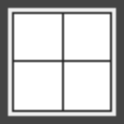
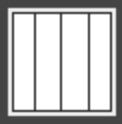
fix small synapse bugs and calibration backup

Changed region(s): [[0.0984, 0.0484, 0.959, 0.9435]]

diff --git a/Naveen/Synapse/SynapseActionMac.py b/Naveen/Synapse/SynapseActionMac.py
@@ -23,7 +23,7 @@ from helpers import file_to_list, json_to_dict, turn_int
 
 
 class SynapseAction:
-    def __init__(self, lexicon, recordingPath, imageFolder=None, keyboard=True, calibrationPath = None):
+    def __init__(self, lexicon, commandFile, recordingPath, imageFolder=None, keyboard=True, calibrationPath = None):
         ####################
         ## autogui setup  ##
         auto.FAILSAFE = True
@@ -45,9 +45,10 @@ class SynapseAction:
         if calibrationPath is None:
             self.calibrationPath = "calibration" + "_".join(list(str(e) for \
                 e in [self.width, self.height, self.scale])).replace(".", "-") + ".txt"
+        print(self.calibrationPath)
         # Initialize the command desambiguation tool
         self.finalCmd = SynapseCommand(lexicon, recordingPath)
-        self.cmd_dict = json_to_dict('commands.json')
+        self.cmd_dict = json_to_dict(commandFile)
 
         # Variables of the synapse window
         # TODO all of this variables should probably go. Check that the code that uses them
@@ -62,7 +63,7 @@ class SynapseAction:
 
         # Status of the system:
         self.status = {"prev_action": "", "panel_dim": [1, 1],
-            "window_open": False, "active_panel": [1, 1],
+            "window_open": False, "active_panel": [0, 0],
             "rulers": {"len": 0}, "toUse": "Keyboard",
             # "hold_action": None,
             "topBarHeight": None, "defaultCommand": None, "group1_command": None,
@@ -211,8 +212,8 @@ class SynapseAction:
             self.status["jumpH"] = (self.status["firstH"] * 2.0 if self.status["panel_dim"][0] != 1 else 0)
 
     def moveToActivePanel(self):
-            moveToX = self.status["firstW"] + (self.status["active_panel"][1] - 1) * (self.status["jumpW"])
-            moveToY = self.status["firstH"] + (self.status["active_panel"][0] - 1) * (self.status["jumpH"])
+            moveToX = self.status["firstW"] + (self.status["active_panel"][1]) * (self.status["jumpW"])
+            moveToY = self.status["firstH"] + (self.status["active_panel"][0]) * (self.status["jumpH"])
             auto.moveTo(moveToX, moveToY)
 
     # Reset height of top bar and save it
@@ -352,6 +353,7 @@ class SynapseAction:
             if sequence_list[btn_index] in self.cmd_dict:
                 btn_tex = self.cmd_dict[sequence_list[btn_index]]
             else:
+                print "WRONG TASK"
                 return None
             if first_row:
                 self.btn_list[btn_index]['fg'] = self.fg_colors[1]
@@ -369,7 +371,7 @@ class SynapseAction:
         option = 0
         option_number = len(sequence_list)+1
         while True:
-            if keyboard.is_pressed('down') and not pressed:
+            if keyboard.is_pressed('3') and not pressed:
                 pressed= True
                 highlight_index = option % option_number
                 self.btn_list[highlight_index]['fg'] = self.fg_colors[0]
@@ -390,15 +392,18 @@ class SynapseAction:
                     window = Toplevel(self.root_window,width=sub_win_w,height=sub_win_h)
                     window.geometry('%dx%d+%d+%d' % (sub_win_w, sub_win_h, 20, 50))
                     cmd_keys = self.cmd_dict.keys()
+                    column_number = 3
+                    num_of_cmds = len(cmd_keys)
+                    column_elem_num = num_of_cmds/column_number
                     cmd_keys.sort(key=turn_int)
                     # create the windows with all the commands
                     option_matrix = []
                     for i in range(3):
-                        max_j = 10 if i < 2 else 8
+                        max_j = column_elem_num if i < 2 else num_of_cmds - column_elem_num*(column_number-1)
                         column = []
                         for j in range(max_j):
                             label = Label(window,font=self.big_font,
-                                text=self.cmd_dict[cmd_keys[i*10+j]],
+                                text=self.cmd_dict[cmd_keys[i*column_elem_num+j]],
                                 background = self.bg_colors[0],
                                 borderwidth=2, relief="groove", width=22
                                 )
@@ -408,7 +413,7 @@ class SynapseAction:
                     window.lift()
                     window.attributes("-topmost", True)
                     sub_pressed = [False, False, False, False]
-                    keys = ['down','up','left','right']
+                    keys = ['3','2','1','4']
                     option_modifier = [1,-1,-1,1]
                     column_option = 0
                     row_option = 0
@@ -454,29 +459,25 @@ class SynapseAction:
                             key_index = row_num*len(option_matrix[0]) + col_num
                             window.destroy()
                             self.root_window.withdraw()
-                            auto.PAUSE = 0.5
                             self.openWindow(self.viewer)
                             auto.PAUSE = 1
-                            print("RETURNING HERE",cmd_keys[key_index])
                             return cmd_keys[key_index]
 
                         self.root_window.update_idletasks()
                         self.root_window.update()
                 else:
                     self.root_window.withdraw()
-                    auto.PAUSE = 0.5
                     self.openWindow(self.viewer)
                     auto.PAUSE = 1
                     return sequence_list[text_index]
 
             elif keyboard.is_pressed('x') and not pressed:
                 self.root_window.withdraw()
-                auto.PAUSE = 0.5
                 self.openWindow(self.viewer)
                 auto.PAUSE = 1
                 return None
 
-            if not keyboard.is_pressed('down'):
+            if not keyboard.is_pressed('3'):
                 pressed = False
             if not keyboard.is_pressed('y'):
                 y_pressed = False
@@ -655,10 +656,12 @@ class SynapseAction:
         ####################################################
 
         elif (command == "Switch Panel" and action != "Switch Panel"):
-            ind = int(actionID / 3)
-            self.status["active_panel"][ind] += (-1 if action == "Left" or action == "Up" else 1)
-            self.status["active_panel"][ind] = max(1, self.status["active_panel"][ind])
-            self.status["active_panel"][ind] = min(self.status["active_panel"][ind], self.status["panel_dim"])
+            # TODO change if we are going to use more than 1 by X pannel configs
+            self.status["active_panel"][1] += (-1 if action == "Left" or action == "Up" else 1)
+            self.status["active_panel"][1] = max(0, self.status["active_panel"][1])
+            self.status["active_panel"][1] = min(self.status["active_panel"][1], self.status["panel_dim"][1]-1)
+            print("active pannels:",self.status["active_panel"])
+            print("layout:",self.status["panel_dim"])
             self.moveToActivePanel()
             auto.click()
 
@@ -788,11 +791,13 @@ class SynapseAction:
             print layoutOptionPath
             (center_x, center_y) = auto.locateCenterOnScreen(layoutOptionPath)
             auto.click(center_x/2,center_y/2)
+            self.status["panel_dim"] = [1, actionID]
+            self.status["active_panel"] = [0, 1] if actionID ==3 else [0,0]
             time.sleep(2)
             self.resetPanelMoves()
             self.moveToActivePanel()
             auto.click()
-            pass
+            return True
 
 
         ####################################################

diff --git a/Naveen/s_server.py b/Naveen/s_server.py
@@ -7,13 +7,13 @@ from CustomSocket import Server
 DEFAULT_PATH  = os.path.join("Synapse","SCA_Images")
 
 class SynapseServer(Server):
-    def run(self, only_once = False, lexicon='L3', filename='test', syn_path=DEFAULT_PATH):
+    def run(self, only_once = False, lexicon='L3', commandFile='commands.json', filename='test', syn_path=DEFAULT_PATH):
         ########################
         # Receives a data string from a client, prints it, sends True/False to the client
         # If only_once is True, it will receive only one data string. Otherwise, it will receive infinitely.
         ########################
         print('--------- Server ---------')
-        syn_action = sa.SynapseAction(lexicon, filename, imageFolder=syn_path)
+        syn_action = sa.SynapseAction(lexicon, commandFile, filename, imageFolder=syn_path)
         # signal.signal(signal.SIGINT, syn_action.signalHandler)
         syn_action.calibrate()
         while True:
@@ -52,16 +52,18 @@ if __name__ == '__main__':
     parser.add_argument('-s', action="store", dest="syn_path",
             help="Path to the SCA synapse folder",
             default=DEFAULT_PATH)
+    parser.add_argument('-c', action="store", dest="command_file",
+            help="command file", required=True)
     # parser.add_argument('-t',action="store", dest="use_thread",
             # type=bool, default=True)
     args = parser.parse_args()
 
     #### Variables #######
-    # tcp_ip = socket.gethostbyname(socket.gethostname())
-    # tcp_ip='10.186.42.155'
-    tcp_ip = 'localhost'
+    tcp_ip = socket.gethostbyname(socket.gethostname())
+    tcp_ip='10.186.40.121'
+    # tcp_ip = 'localhost'
     # print(tcp_ip)
-    tcp_port = 10000
+    tcp_port = 9000
     server = SynapseServer(tcp_ip, tcp_port, buffer_size = 1000000)
     # print args.use_thread
     # if args.use_thread:
@@ -73,4 +75,4 @@ if __name__ == '__main__':
         # server_thread.start()
     # else:
         # print "HERE"
-    server.run(lexicon=args.lexicon,filename=args.filepath, syn_path=args.syn_path)
+    server.run(lexicon=args.lexicon, commandFile=args.command_file, filename=args.filepath, syn_path=args.syn_path)

diff --git a/Naveen/s_client.py b/Naveen/s_client.py
@@ -11,7 +11,7 @@ from CustomSocket import Client
 #### Variables #######
 # tcp_ip = '10.186.42.155'
 tcp_ip = 'localhost'
-tcp_port = 10000
+tcp_port = 9000
 # dataList = ["1_1 40", "1_2 30", "2_1", "2_2", "3_1", "3_2", "4_1 200", "4_2 40", "6_1 80", "6_2 80", "6_3 80", "6_4 80", "8_1", "8_2", "9_1 60", "9_2 30", "10_4", "5_1", "5_2", "5_3", "5_4", "5_1", "0_2", "11_1", "11_2"]
 dataList = ["3_0", "3_1", "3_0", "3_2", "4_0", "4_1","4_0", "4_2" ]
 dataList = ["3_0", "3_1", "3_0", "3_2", "4_0", "4_1","4_0", "4_2" ]
@@ -19,19 +19,19 @@ dataList = ["3_0", "3_1", "3_0", "3_2", "4_0", "4_1","4_0", "4_2" ]
 # dataList = ["1_0", "1_1", "1_2", "1_1", "2_0", "2_1", "2_2", "2_1", "2_1", "2_2", "2_0","3_0", "3_1", "3_2", "3_1", "3_1", "3_2", "3_0", "4_0", "4_1", "4_1", "4_2", "4_2", "4_0", "4_0", "4_1", "4_2", "3_1", "4_1", "4_1", "4_0", "6_0", "6_1", "6_1", "6_2", "6_2", "6_0", "6_0", "6_1", "6_2"]
 # dataList = ["4_0", "4_1", "4_1", "4_2", "4_2", "4_0", "4_0", "4_1", "4_2", "3_1", "4_1", "4_1", "4_0"]
 # dataList = ["4_0", "4_1", "4_1", "4_2", "4_2", "4_0", "4_0", "4_1", "4_2", "3_1", "4_1", "4_1", "4_0", "6_0", "6_1", "6_1", "6_2", "6_2", "6_0", "6_0", "6_1", "6_2"]
-dataList = ["4_0", "4_1", "4_1", "6_0", "6_1", "6_2", "6_3", "6_4"]
+dataList = ["4_1", "6_3", "6_4", "6_1", "6_1", "6_1", "6_2", "6_1", "6_2", "6_1", "6_2", "6_1", "6_2"]
 # dataList = ["4_1", "6_0", "6_3", "6_4", "6_3"]
 # dataList = ["4_1","6_1", "6_2", "6_3", "6_4", "6_4", "6_3", "6_2", "6_1"]
 # dataList = ["9_0", "9_2", "4_0", "9_2", "3_1", "9_1"]
 # dataList = ["11_1", "11_2", "4_1", "11_1"]
-# dataList = ["10_1", "10_2", "10_3", "10_4"]
+dataList = ["10_3", "5_1", "5_2", "5_2", "5_2"]
 
 ###### Initialize client socket ######
 client = Client(tcp_ip, tcp_port, buffer_size = 1000000)
 
 print("CLIENT GOT HERE")
 # iterate over the list and send the message to the synapse server
-extra_msg=',4_1,4_2'
+extra_msg=',5_1,5_2'
 for elem in dataList:
     try:
         if(not client.connect_status): client.init_socket()

diff --git a/Naveen/CustomSocket.py b/Naveen/CustomSocket.py
@@ -18,6 +18,7 @@ class Server():
 
         ## Socket Initialization
         self.sock = socket.socket(socket.AF_INET, socket.SOCK_STREAM) # Opening the socket
+        self.sock.setsockopt(socket.SOL_SOCKET, socket.SO_REUSEADDR, 1)
         self.sock.bind((self.tcp_ip, self.tcp_port))
         self.sock.listen(self.max_clients)
         self.connect_status = False # Connection not yet established.
